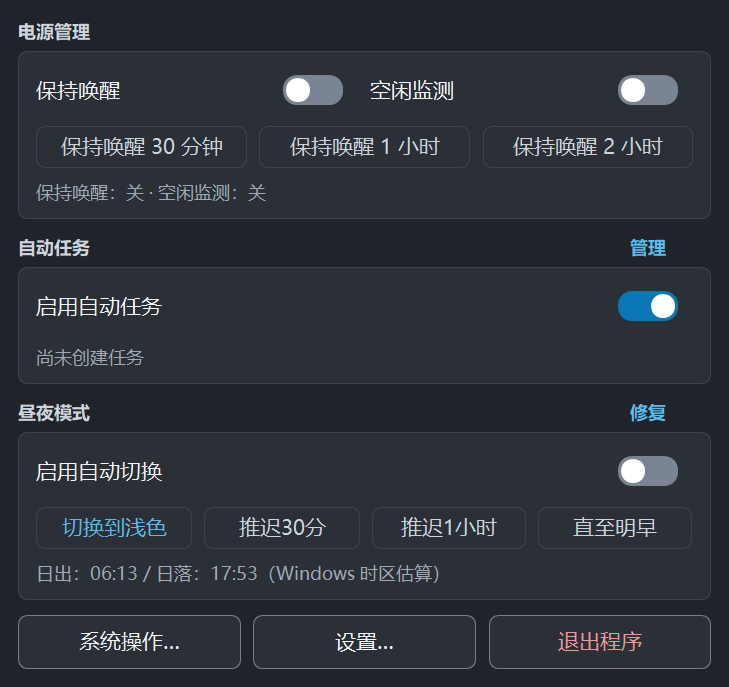
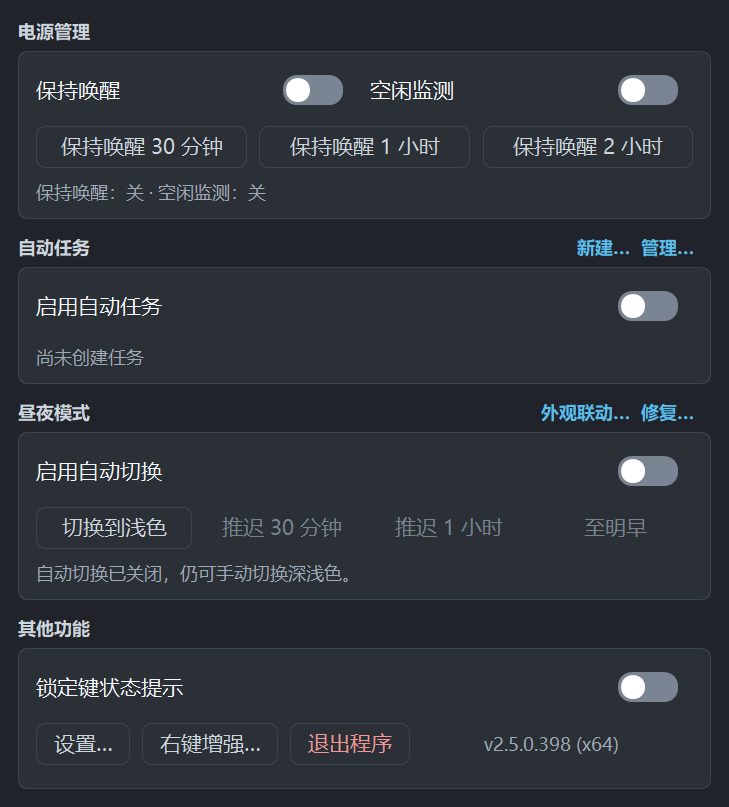
Update feature documentation and screenshots

diff --git a/docs/user-guide.md b/docs/user-guide.md
@@ -26,6 +26,10 @@ Open **Context menu** from the panel. Its master switch applies immediately. **C
 
 从面板打开**右键增强**。顶部总开关立即生效；**自定义规则**展示已保存的列表，点击**新建规则**或双击列表项进入编辑，也可按 Enter / F2。保存后返回列表并保留选中项；取消会放弃本次编辑。Esc 从编辑区返回，有修改时会询问；Ctrl+S 保存。工作目录、图标和隐藏控制台位于**高级选项**。切换到**菜单选项**时会保留尚未保存的规则草稿。
 
+Each rule row summarizes its target and applicability. In the editor, expand **Advanced options** and use **Browse** beside the working folder to choose a directory with the native folder picker. The [screenshot gallery](screenshots.md) shows the panel and the separate context-menu window in both languages and themes.
+
+规则列表同时展示目标程序与适用条件摘要。编辑时展开**高级选项**，点击工作目录旁的**浏览**，可用系统文件夹选择器填写目录。[界面截图](screenshots.md)展示中英文、深浅色面板及独立的右键增强窗口。
+
 **菜单选项**自动保存，包含菜单合并、复制功能、路径引号及多选复制的分隔方式。经典菜单开关仅在 Windows 11 显示，确认后重启资源管理器。关闭时通过**显示更多选项**使用；开启后右键直接可见。关闭该选项会移除当前用户的经典菜单覆盖设置，包括其他工具创建的设置。若无法确认资源管理器恢复，会显示恢复方法；手动修改配置中的 `ctx_win11_classic` 不会切换系统菜单。
 
 - **Copy path** reads the complete selection and writes once: full paths, shortcut targets, parent folders, file names, stems, or extensions. Shortcut targets appear for `.lnk` files. Results follow Explorer's order, use one line per item by default, and apply the selected quoting policy to each path. Set `ctx_copy_separator = "space"` to use spaces. Unreadable paths abort the operation instead of silently omitting items. Folder-background copying uses the current folder.
@@ -41,6 +45,10 @@ Open **Context menu** from the panel. Its master switch applies immediately. **C
 - 过滤支持 `*.txt;*.dll`、`.txt`、`txt` 等简单扩展名，留空不限类型；不支持 `*.tar.gz` 等复合扩展名及其他通配符。执行前检查范围和类型，批量选择中存在不适用项时整批中止；展开后的命令行过长也会在启动前中止。
 - **保存规则**后返回列表并显示结果，继续修改时重新打开该规则；**取消**放弃本次编辑。返回或关闭窗口时，有未保存修改会询问处理方式。外部配置变化不会被静默覆盖，取消编辑后重新打开可加载最新版本。同名规则分别维护。列表底部的启用 / 停用立即作用于当前选中项。
 - 上移、下移改变顺序；添加分隔线会先处理未保存草稿，再立即保存。启用的分隔线要求子菜单，且只显示在规则之间。损坏规则禁用并保留；最多注册 32 条，外部超额配置不会截断。移动或删除 EXE 前应关闭功能；启用时移动了程序，则退出旧实例后运行新副本修复菜单路径。
+
+After upgrading from a version without complete-selection copying, exit the old tray instance and start the new EXE so the registered copy handlers and the running app use the same settings protocol. Copy quoting and separator preferences come from the running app's last valid configuration.
+
+从尚未支持完整多选复制的版本升级后，退出旧托盘实例再启动新版 EXE，使复制入口和运行中程序使用一致的设置协议。复制时的引号与分隔方式取自运行中程序最近的有效配置。
 
 ## Power management / 电源管理
 
@@ -58,9 +66,9 @@ Open **Context menu** from the panel. Its master switch applies immediately. **C
 
 ## Automatic tasks / 自动任务
 
-Use **Manage Tasks → New**, which opens a template menu: keep awake while a process runs, a nightly shutdown, stay awake during work hours, or a blank rule. Templates only prefill the editor — every field stays editable. State tasks temporarily request Stay Awake or Idle Monitoring. Event tasks offer built-in Windows actions (lock, sleep, hibernate, shutdown, restart, turn off display, log off) plus session, resume, and battery-threshold triggers, with a cancellable countdown of at least 10 seconds. A battery rule fires once when the percentage drops below its level and re-arms after recovery. Disabling or changing a rule cancels an outdated pending action.
+Use **New…** in the panel's Automatic Tasks header, or **Manage → New**. Both open the same template menu: keep awake while a process runs, nightly shutdown, work-hour wakefulness, low-battery hibernation, shutdown in 30 minutes or 1 hour, sleep in 30 minutes, or a blank task. Templates prefill an editable form and take effect only after saving. Delayed templates store a specific date and time, rounded up to the next minute; they are one-time tasks, not a delay that restarts each time the app opens. State tasks temporarily request Stay Awake or Idle Monitoring. Event tasks offer built-in Windows actions (lock, sleep, hibernate, shutdown, restart, turn off display, log off) plus session, resume, and battery-threshold triggers, with a cancellable countdown of at least 10 seconds. A battery rule fires once when the percentage drops below its level and re-arms after recovery. Disabling or changing a rule cancels an outdated pending action.
 
-在“管理任务 → 新建”中先从模板菜单选择：进程运行时保持唤醒、每天定时关机、工作时段保持唤醒，或空白规则。模板只负责预填编辑器——所有字段仍可修改。状态任务临时请求保持唤醒或空闲监测；事件任务提供内置 Windows 操作（锁定、睡眠、休眠、关机、重启、关闭显示器、注销）与锁定/解锁、从睡眠恢复、电量阈值触发器，包含至少 10 秒的可取消倒计时。电量规则在百分比低于阈值时触发一次，回充到阈值后重新武装。禁用或修改规则会取消已经失效的待执行动作。
+点击主面板自动任务标题旁的**新建…**，或进入**管理… → 新建**，均可打开模板菜单：进程保持唤醒、每晚定时关机、工作时段保持唤醒、低电量时休眠、30 分钟或 1 小时后关机、30 分钟后睡眠，以及空白任务。模板预填可编辑的表单，保存后才生效；延时模板换算为具体日期和时刻，向上取整到分钟，是一次性任务，不会每次启动程序都重新延时。状态任务临时请求保持唤醒或空闲监测；事件任务提供内置 Windows 操作（锁定、睡眠、休眠、关机、重启、关闭显示器、注销）与锁定/解锁、从睡眠恢复、电量阈值触发器，包含至少 10 秒的可取消倒计时。电量规则在百分比低于阈值时触发一次，回充到阈值后重新武装。禁用或修改规则会取消已经失效的待执行动作。
 
 Process-name targets match all instances of that name; Browse selects an exact EXE path. The picker reads names, counts, and file descriptions. It does not launch files, save PIDs, or inspect process memory. Search and sorting preserve checked targets, including those hidden by the filter.
 

diff --git a/docs/screenshots.md b/docs/screenshots.md
@@ -1,0 +1,35 @@
+# Screenshots / 界面截图
+
+Captured on 2026-10-11 using the x64 diagnostic build from `80a50a9`; panel images include the subsequent shorter morning-preset labels. These are real application client-area captures with an isolated configuration: automatic features are off and no task or custom rule has been saved. Light/dark overrides affect only the app. Screenshots illustrate the UI, not Explorer execution or a full regression result.
+
+截图于 2026-10-11 基于 `80a50a9` 的 x64 诊断构建生成，面板图片另包含后续的“至明早”按钮短文案修正，均为真实应用客户区。使用独立配置，自动功能关闭，未保存任务或自定义规则；深浅色覆盖仅作用于应用。配图用于展示界面，不代表已验收资源管理器执行效果或完成全量回归。
+
+## Control panel / 控制面板
+
+The panel includes direct task creation, appearance settings, lock-key notifications, and the context-menu manager entry.
+
+面板包含直接新建任务、外观联动、锁定键提示及右键增强入口。
+
+| 简体中文 · 浅色 | 简体中文 · 深色 |
+| --- | --- |
+| ![简体中文浅色面板](images/panel-zh-light.png) | ![简体中文深色面板](images/panel-zh-dark.png) |
+
+| English · Light | English · Dark |
+| --- | --- |
+| ![English light panel](images/panel-en-light.png) | ![English dark panel](images/panel-en-dark.png) |
+
+## Context-menu manager / 右键增强管理器
+
+Custom rules and menu options share a dedicated window. New rules open an editor; the master switch and menu options apply immediately.
+
+自定义规则与菜单选项整合在独立窗口中。新建规则进入编辑区，总开关及菜单选项即时生效。
+
+| 简体中文 · 浅色 | 简体中文 · 深色 |
+| --- | --- |
+| ![简体中文浅色右键增强管理器](images/ctx-manager-zh-light.png) | ![简体中文深色右键增强管理器](images/ctx-manager-zh-dark.png) |
+
+| English · Light | English · Dark |
+| --- | --- |
+| ![English light context-menu manager](images/ctx-manager-en-light.png) | ![English dark context-menu manager](images/ctx-manager-en-dark.png) |
+
+[User guide / 使用指南](user-guide.md) · [Documentation / 文档索引](README.md)

diff --git a/README.md b/README.md
@@ -40,14 +40,16 @@ Native controls support keyboard navigation and preserve edits when display DPI 
 
 Left-click the tray icon for quick controls, then open **Settings** for all persistent preferences.
 
+See the [screenshot gallery](docs/screenshots.md) for the panel and context-menu manager in both languages and themes.
+
 ## ✨ At a Glance
 
 | | Capability | Built for |
 | --- | --- | --- |
 | ⚡ | **Stay Awake** | Downloads, renders, backups, and remote sessions that must keep running; timed presets expire automatically. |
 | ⏱ | **Idle Actions** | Lock, sleep, hibernate, shut down, restart, or turn the display off after real keyboard and mouse inactivity. |
-| 🔁 | **Automatic Tasks** | Start from templates, then control power features or run built-in actions by schedule and process state. |
-| | **Explorer Context Menu** | Copy selected paths in six formats and manage custom rules with single-item, per-item, or batch execution. See the [user guide](docs/user-guide.md#explorer-context-menu--资源管理器右键增强) for details. |
+| 🔁 | **Automatic Tasks** | Create tasks directly from the panel: process-based wakefulness, work hours, nightly shutdown, low-battery hibernation, or delayed shutdown/sleep. Review and save each template before it takes effect. |
+| 📂 | **Explorer Context Menu** | Copy the complete selection in six formats; manage custom rules with single-item, per-item, or batch execution in one window. Copy tools and rules share an IdleTrigger submenu by default. See the [user guide](docs/user-guide.md#explorer-context-menu--资源管理器右键增强). |
 | 🌗 | **Day / Night** | Switch Windows themes by time or sunrise and sunset, optionally link wallpaper and cursor schemes, snooze a pending switch, and adapt to battery and fullscreen. |
 | 🔄 | **Self-Update** | Optional check whenever the control panel is shown, plus on-demand checks from the tray menu and Settings that open the update prompt directly; one confirm downloads, SHA-256-verifies, installs, and restarts for you, with a link to the release notes. |
 

diff --git a/README.zh-CN.md b/README.zh-CN.md
@@ -40,14 +40,16 @@
 
 左键托盘图标使用快捷控制，需要调整长期生效的选项时打开“设置”。
 
+中英文深浅色面板及右键增强窗口见[界面截图](docs/screenshots.md)。
+
 ## ✨ 核心能力
 
 | | 能力 | 适用场景 |
 | --- | --- | --- |
 | ⚡ | **保持唤醒** | 下载、渲染、备份或远程连接期间阻止自动睡眠；支持限时预设，到期自动恢复。 |
 | ⏱ | **空闲动作** | 真实键盘、鼠标持续无操作后，自动锁定、睡眠、休眠、关机、重启或熄屏。 |
-| 🔁 | **自动任务** | 按模板快速创建，按计划或进程状态控制电源功能，也可执行内置系统动作。 |
-| | **右键增强** | 六种单项路径复制格式，可维护自定义打开规则、作用范围、过滤与排序；选择数量限制见[使用指南](docs/user-guide.md#explorer-context-menu--资源管理器右键增强)。 |
+| 🔁 | **自动任务** | 主面板直接新建：进程保持唤醒、工作时段、每晚关机、低电量休眠或延时关机/睡眠；模板经确认保存后生效。 |
+| 📂 | **右键增强** | 六种格式一次复制完整多选结果；在独立窗口维护自定义规则，支持仅单选、逐项执行或整批运行。复制与规则默认合并到 IdleTrigger 子菜单，详见[使用指南](docs/user-guide.md#explorer-context-menu--资源管理器右键增强)。 |
 | 🌗 | **昼夜主题** | 按时间或日出日落切换 Windows 主题，可联动壁纸与指针方案，可推迟单次切换，并适配电池和全屏场景。 |
 | 🔄 | **自动更新** | 可选在每次打开控制面板时后台检查一次，托盘菜单与设置中的手动检查发现新版后直接弹出更新确认；一次确认即自动下载、SHA-256 校验、安装并重启，并可跳转查看更新说明。 |
 

diff --git a/docs/releasing.md b/docs/releasing.md
@@ -16,6 +16,10 @@
 
 Files: `IdleTrigger-x64.exe`, `IdleTrigger-x86.exe`, `SHA256SUMS.txt`. Describe user-visible changes and known limitations. Successful builds cannot replace unperformed hardware/UI checks.
 
+For context-menu changes, include actual Explorer checks in a disposable Windows environment: all six copy formats with Unicode/spaced paths and multiple selections, quoting/separators, single/per-item/batch rules, folder backgrounds, and registration cleanup or EXE relocation. Check the confirmed Windows 11 classic-menu restart and recovery separately. For task-template changes, verify that opening or cancelling a template does not save or execute it. Keep both READMEs, the user guide, and the [screenshots](screenshots.md) aligned with the released UI.
+
+右键功能变更需在独立 Windows 环境实际检查资源管理器：六种复制格式、含空格及 Unicode 路径、多选、引号及分隔方式、单选/逐项/整批规则、文件夹空白处、注册清理与 EXE 迁移。Windows 11 经典菜单确认后的重启及恢复另行验收。任务模板变更需验证打开或取消模板不会保存或执行。两份 README、使用指南及[截图](screenshots.md)应与发布界面一致。
+
 Release notes use `## 更新重点` / `## Highlights` headings, group longer lists under bold subheadings (for example 行为变更 / 修复 / 改进), and end with the standard downloads line plus a Full Changelog compare link to the previous released tag. A release with no earlier tag omits the compare link.
 
 发布文件如上。说明描述用户可见变化和已知限制，构建通过不能代替未执行的硬件或 UI 验证。

diff --git a/docs/README.md b/docs/README.md
@@ -1,6 +1,7 @@
 # Documentation / 文档
 
 - [User guide / 使用指南](user-guide.md): features, configuration, and CLI.
+- [Screenshots / 界面截图](screenshots.md): current panel and context-menu manager in English/Chinese, light/dark.
 - [Configuration reference / 配置参考](../IdleTrigger.example.toml): annotated TOML fields.
 - [Development / 开发](development.md): architecture, builds, and diagnostics.
 - [Releases / 发布](releasing.md): verification and release checklist.
